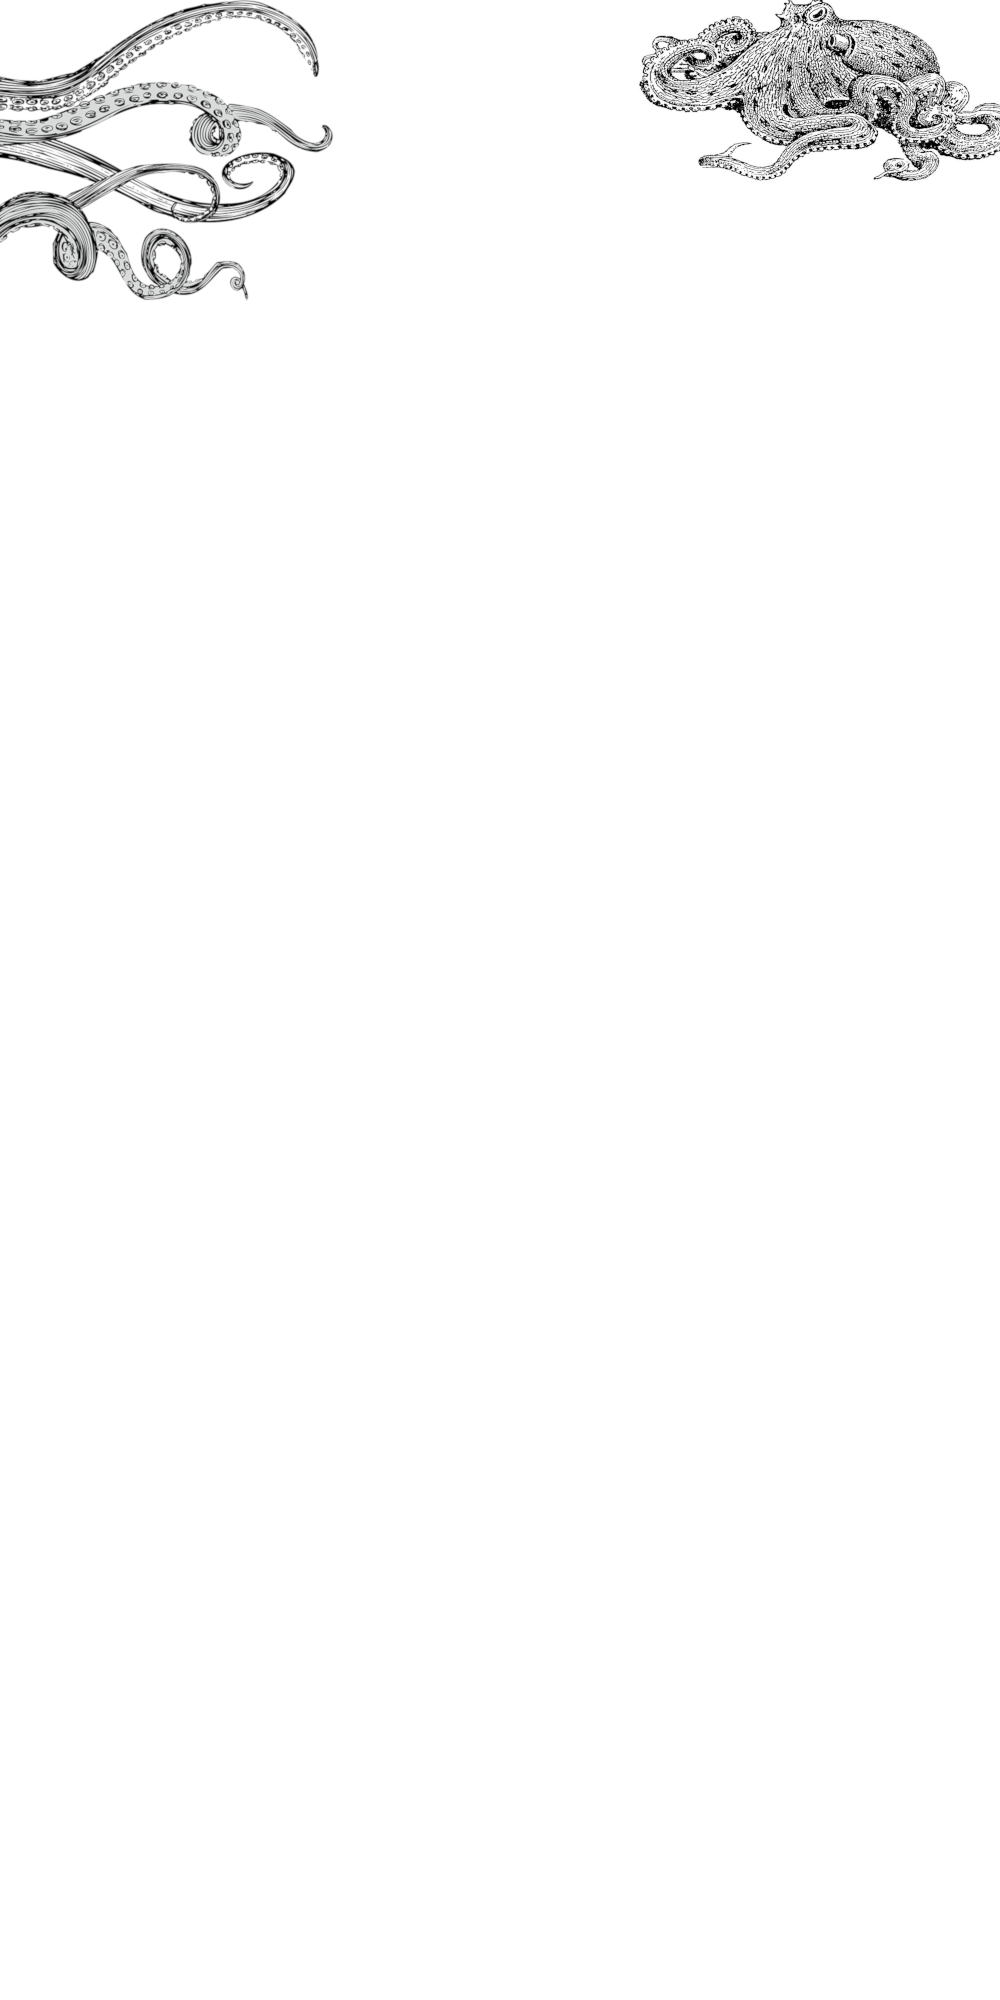
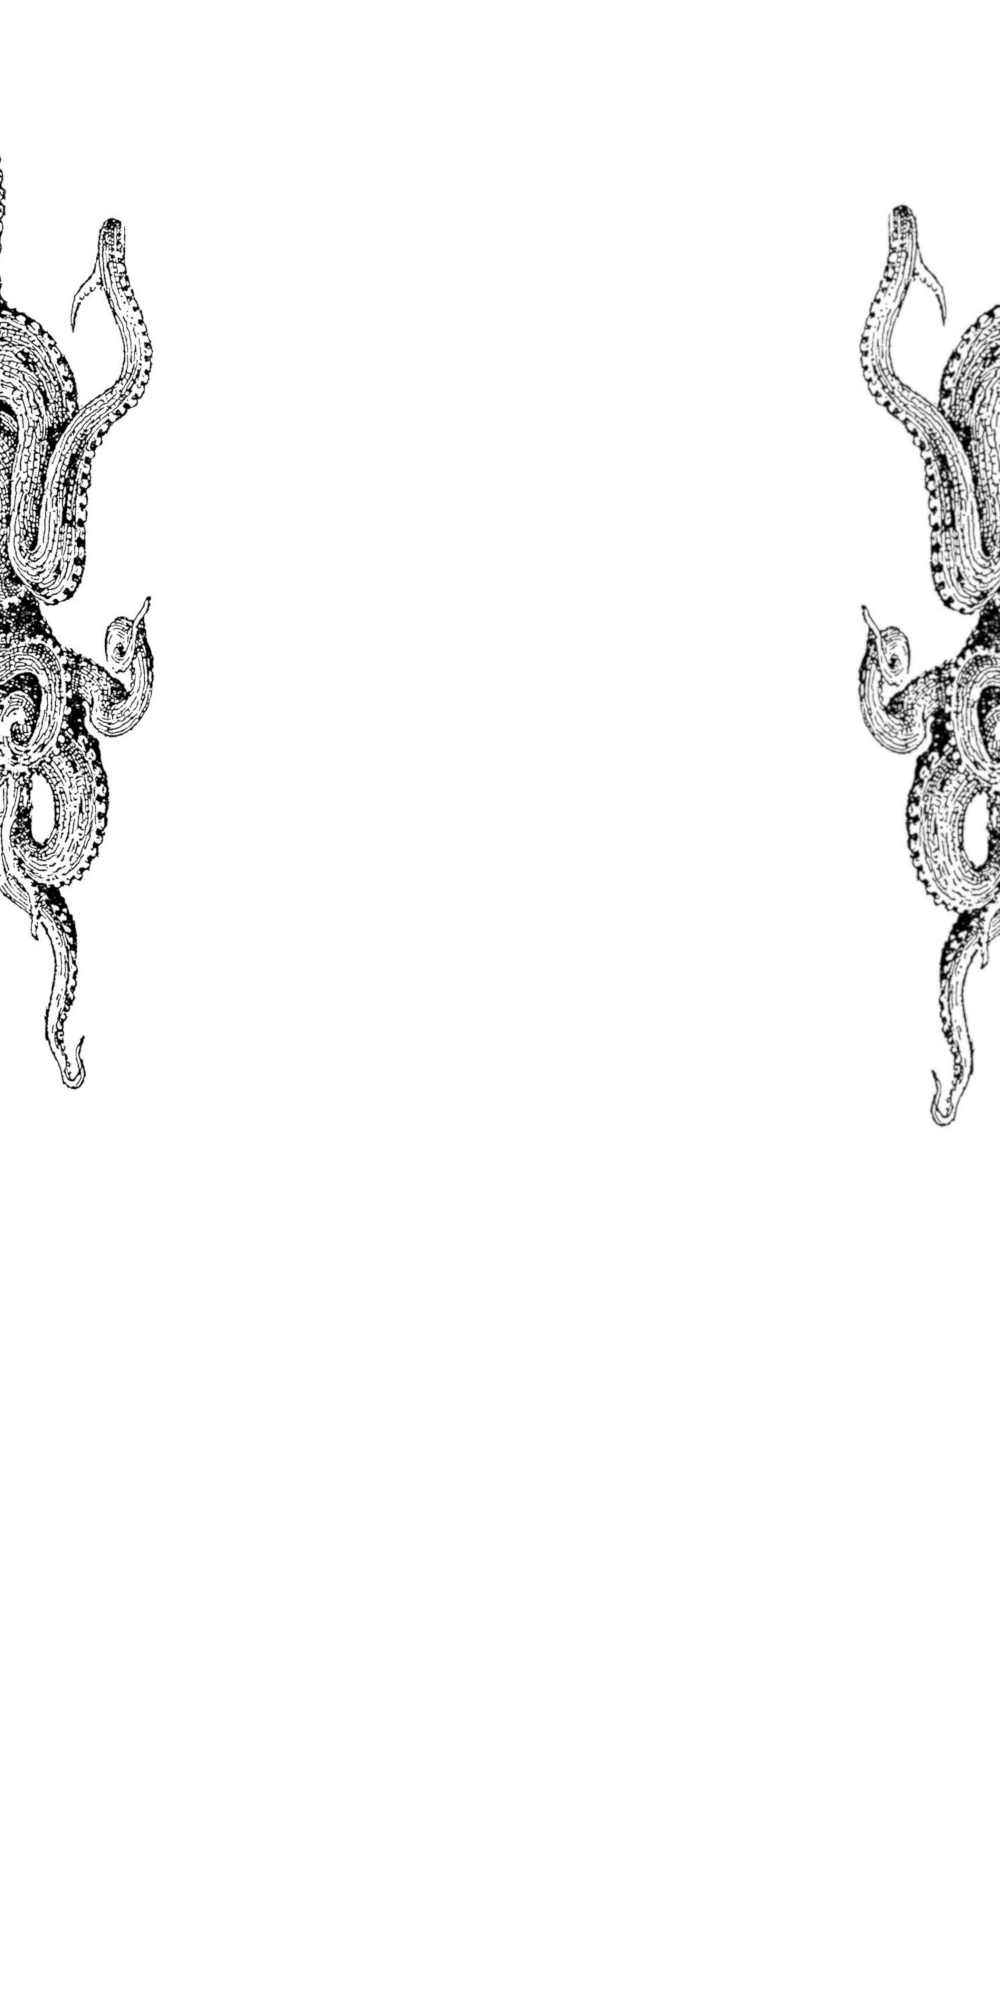
trying new background
let's see if this works...

Changed region(s): [[0.62, 0.0, 1.0, 0.558], [0.0, 0.0, 0.341, 0.558]]

diff --git a/index.md b/index.md
@@ -20,6 +20,11 @@ permalink:
         <a href="https://github.com/sirmurphalot"><img src="{{site.url}}css/icons/github.png" class="icon"></a>
     </div>
 </div>
+<style>
+div {
+  background-image: 'background.png';
+}
+</style>
 <div class="homecontent">
     <p>
     <h3>Research Interests</h3>
